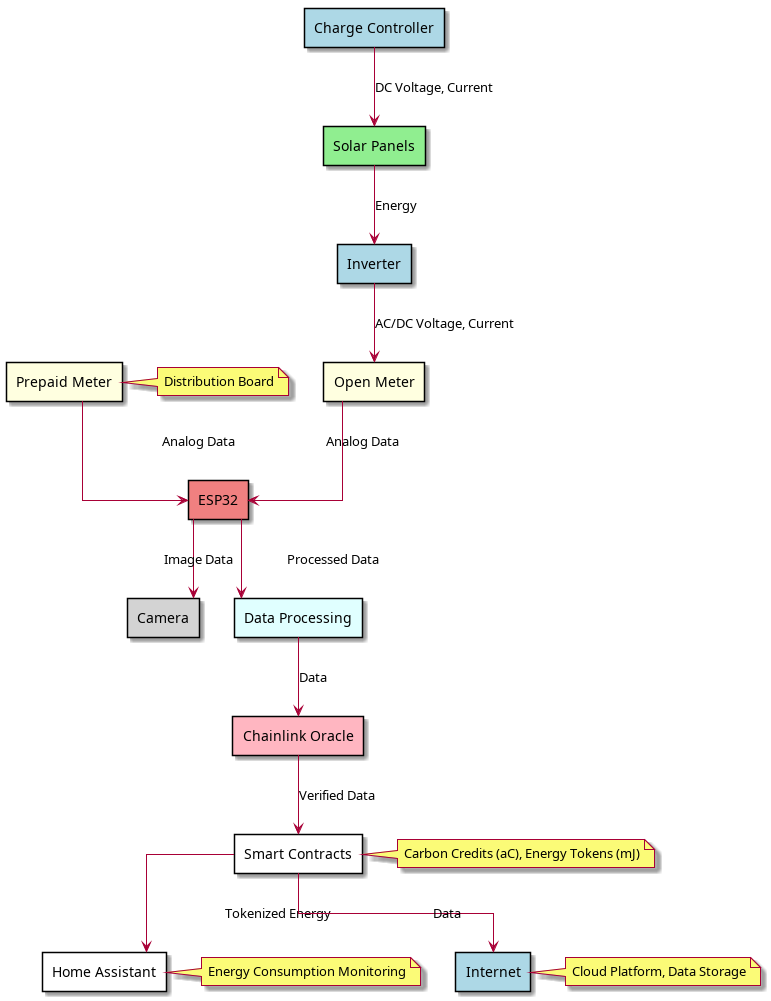
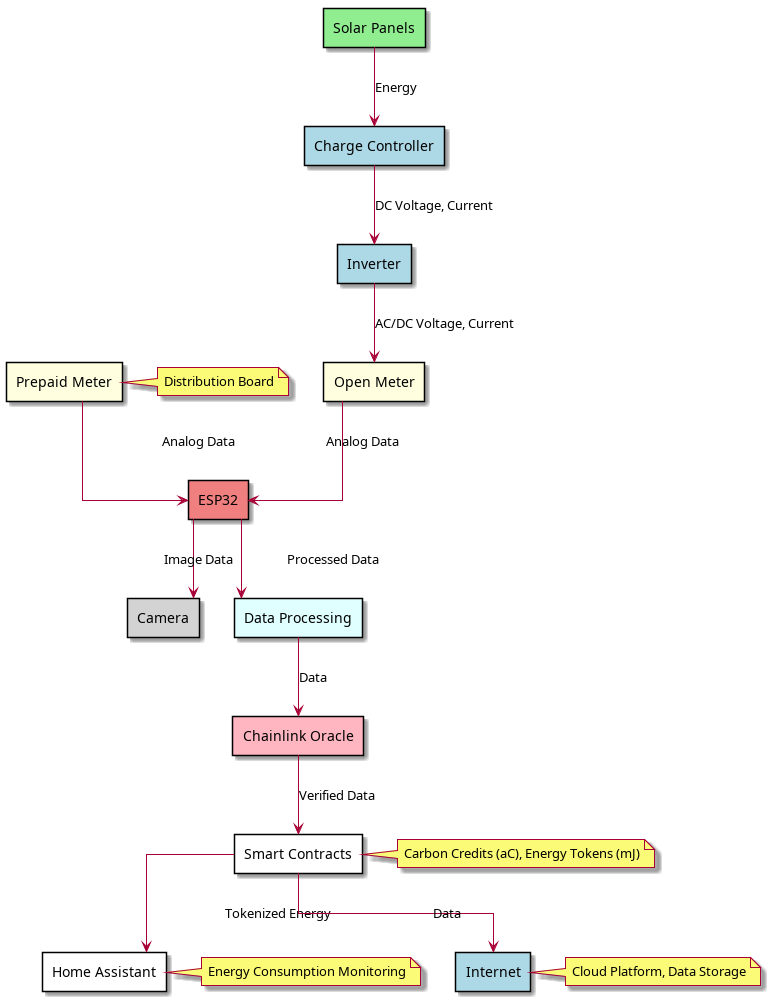
uml

Changed region(s): [[0.3735, 0.1239, 0.6226, 0.2168], [0.3735, 0.0, 0.6226, 0.0929]]

diff --git a/open-meter/README.md b/open-meter/README.md
@@ -31,8 +31,8 @@ rectangle "Smart Contracts" as SmartContracts #lightorange
 rectangle "Home Assistant" as HomeAssistant #lightpurple
 rectangle "Internet" as Internet #lightblue
 
-SolarPanels --> Inverter : Energy
-ChargeController --> SolarPanels : DC Voltage, Current
+SolarPanels --> ChargeController : Energy
+ChargeController --> Inverter : DC Voltage, Current
 Inverter --> OpenMeter : AC/DC Voltage, Current
 OpenMeter --> ESP32 : Analog Data
 PrepaidMeter --> ESP32 : Analog Data
